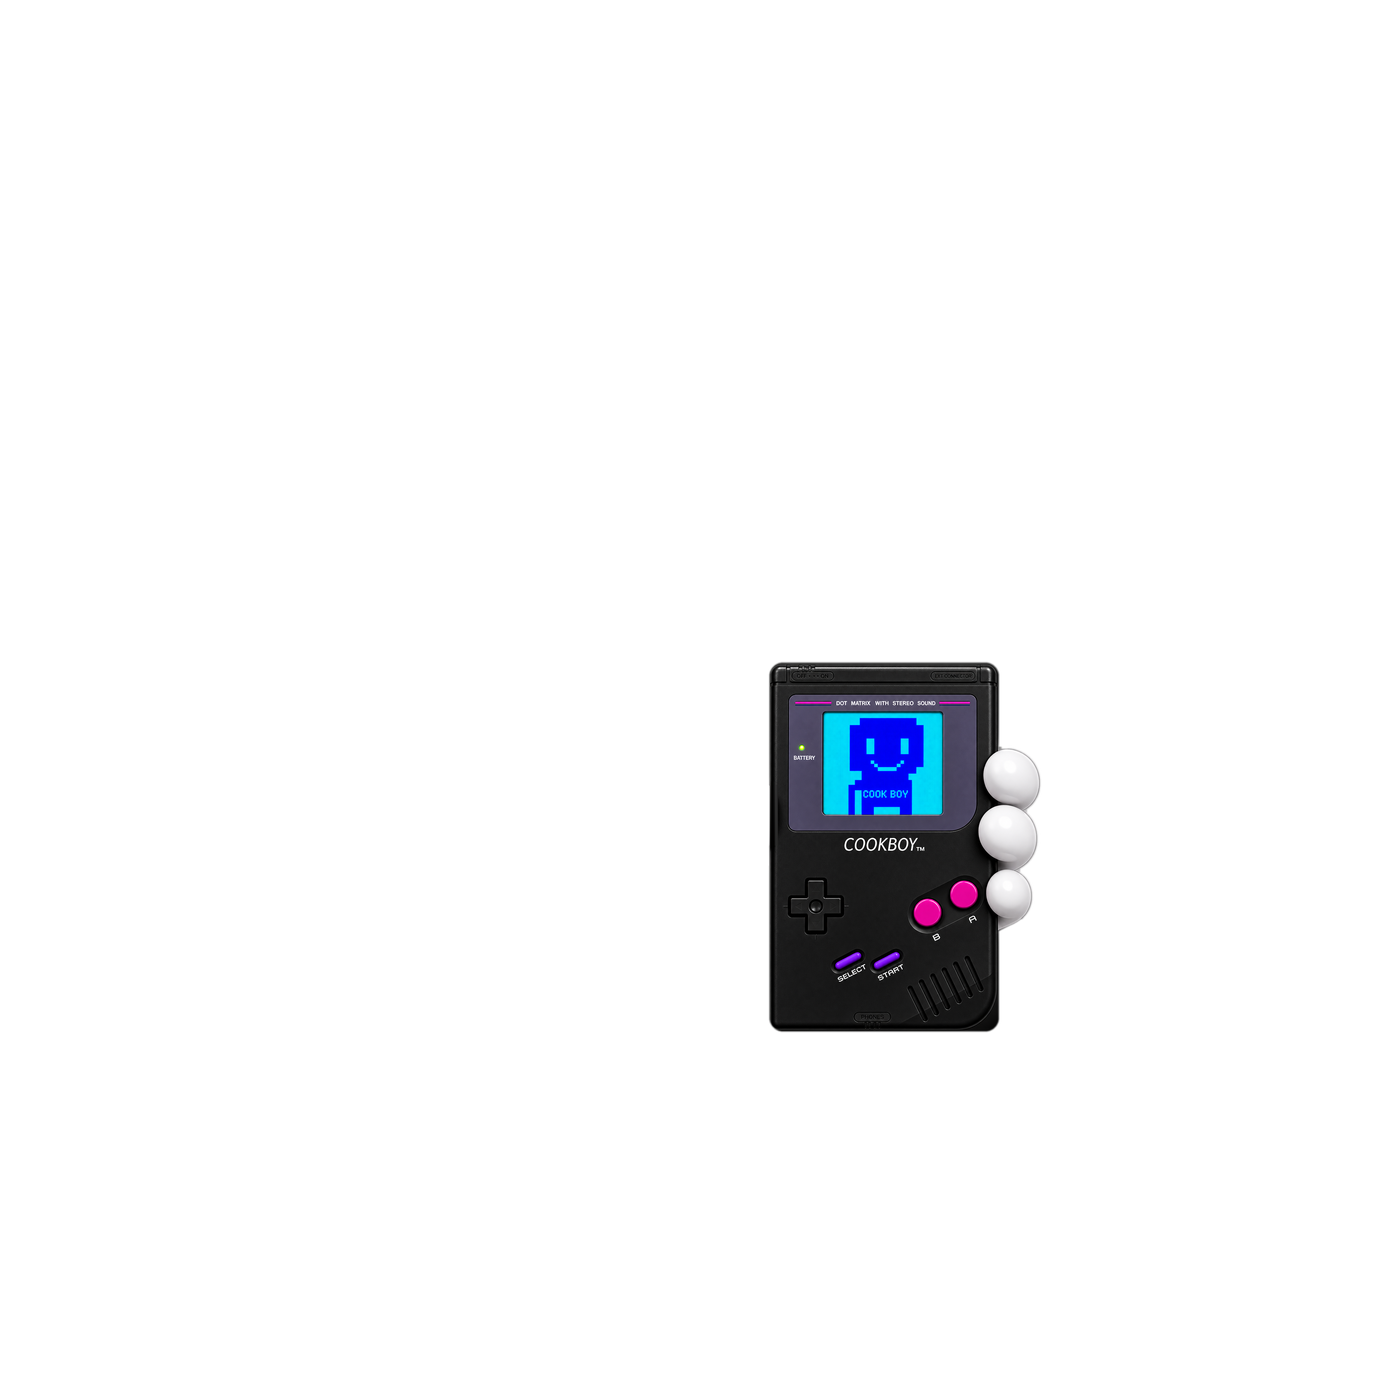
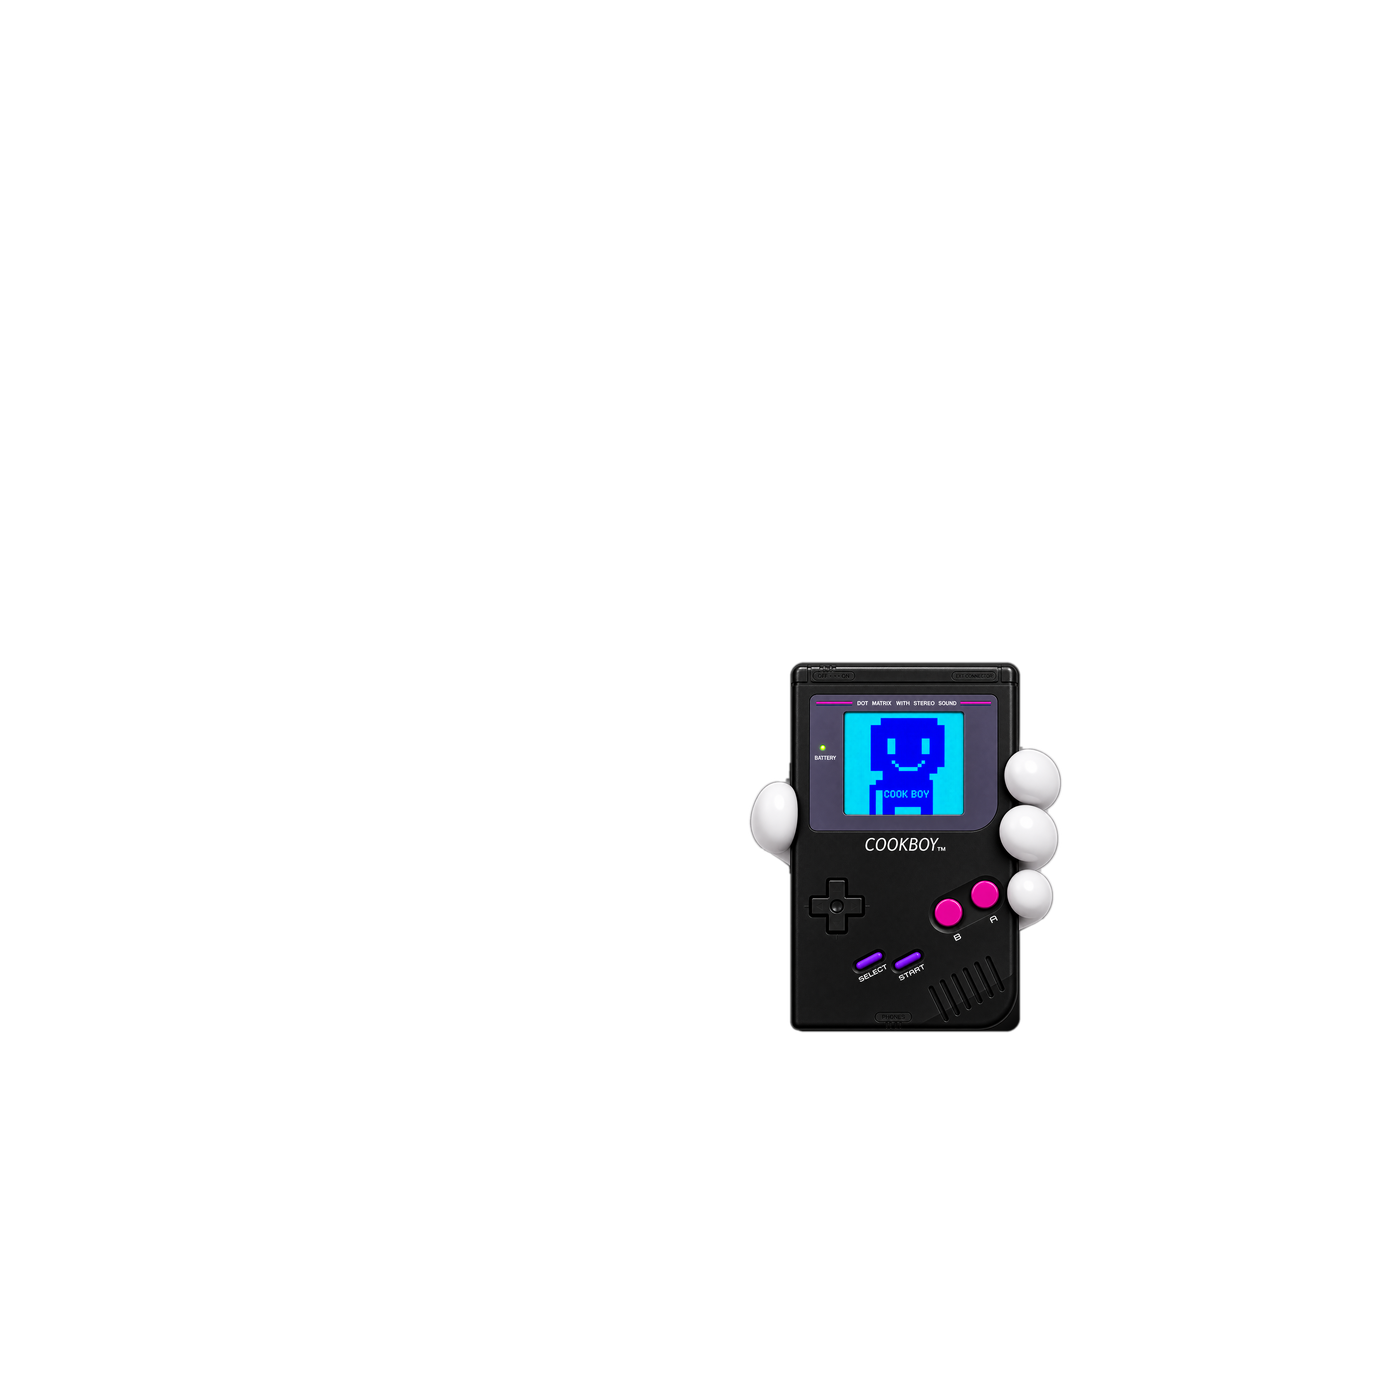
Return the Cookboy's thumb
The sphere on the casing's left is the THUMB of the gripping hand, not a
second hand: it comes round the front while the three fingers wrap the back,
which is exactly why it sits in front of the left bezel. Reading it as an
opposite hand and dropping it cost the grip its thumb and left the fingers
holding the device against nothing.

It was also sliced. The old ellipse mask clipped the thumb the same way it
clipped the two end fingers, so restoring it via hand_mask()'s contour cut
brings it back whole rather than as the half-dome the source crop produced.

With the thumb back there is nothing to repair: repair_left_bezel() existed
only to rebuild the strip of bezel the thumb had been covering, and the
interpolated pixels it synthesized are gone with it. The asset is once again
entirely source art, and the silhouette still has 0 enclosed holes.

The art is 315px wide now rather than 274, so it reaches further either side
of CENTER_X. Re-verified across all 27: 0 eye occlusion, 0 mouth occlusion,
ARMED_LIFT 18/27 matching a rifle. On-body coverage moves to 41.2-95%
(median 61.2%) as the wider art overhangs more, still inside the range the
Knives arm already ships at (18.8-74.1%).

Claude-Session: https://claude.ai/code/session_017xj9sZBpVAv9un9HXHDuMA

Changed region(s): [[0.5248, 0.463, 0.7717, 0.7408]]

diff --git a/asset_assessment/prepare_side_arm.py b/asset_assessment/prepare_side_arm.py
@@ -79,18 +79,19 @@ CENTER_X = 905
 BOTTOM_Y = 1033
 
 
-FINGER_MIN_X = 700     # right of the casing's controls, left of the spheres
-# The dropped hand covered the casing's left bezel across exactly this run.
-BEZEL_REPAIR = (140, 167, 535, 730)   # x0, x1, y0, y1
-
-
 def luma(image):
     return (np.asarray(image, dtype=np.float32)
             @ np.array([0.2126, 0.7152, 0.0722], dtype=np.float32))
 
 
-def finger_mask(image):
-    """The gripping hand's spheres.
+def hand_mask(image):
+    """The gripping hand: three fingers wrapping the right edge, plus the thumb.
+
+    It is ONE hand, not two. The sphere on the casing's left is the thumb of
+    the same hand coming round the front while the fingers wrap the back, which
+    is why it sits in front of the left bezel. Reading it as a second hand and
+    dropping it costs the grip its thumb and leaves the fingers holding the
+    device against nothing.
 
     Cut on EDGE DENSITY, not on brightness. Brightness looks like the obvious
     key -- the spheres are white -- but the studio backdrop immediately right
@@ -111,35 +112,11 @@ def finger_mask(image):
         raise SystemExit("no subject found in the source")
     sizes = ndimage.sum(solid, labels, range(1, count + 1))
     keep = labels == (int(np.argmax(sizes)) + 1)
-    keep[:, :FINGER_MIN_X] = False
     return Image.fromarray((keep * 255).astype(np.uint8), mode="L")
-
-
-def repair_left_bezel(image):
-    """Rebuild the strip of casing the dropped hand was covering.
-
-    The hand sits in FRONT of the casing's left bezel over y 540-724, so simply
-    masking it away punches a notch out of the device's edge -- there is no
-    casing behind it to reveal, and the notch would show the background plate
-    through the silhouette. The bezel is an unbroken vertical strip of black
-    plastic, so the covered rows are interpolated from the clean rows just
-    above and below, which also keeps the strip's top-to-bottom falloff.
-    """
-    rgb = np.asarray(image, dtype=np.float32).copy()
-    x0, x1, y0, y1 = BEZEL_REPAIR
-    above, below = rgb[y0 - 6, x0:x1], rgb[y1 + 6, x0:x1]
-    for step, y in enumerate(range(y0, y1 + 1)):
-        t = step / (y1 - y0)
-        rgb[y, x0:x1] = above * (1.0 - t) + below * t
-    return Image.fromarray(rgb.clip(0, 255).astype(np.uint8), mode="RGB")
 
 
 def main():
     image = Image.open(SOURCE).convert("RGB")
-    fingers = finger_mask(image)
-    # Rebuild the bezel the dropped hand was covering BEFORE cutting, so the
-    # silhouette comes out solid rather than notched.
-    image = repair_left_bezel(image)
     # The backdrop is a black-to-gray studio gradient and the device itself is
     # black, so colour-keying destroys the casing. The casing is a hard-edged
     # rectangle, so mask it as one: it spans x 140-871 at every finger-free
@@ -147,10 +124,9 @@ def main():
     mask = Image.new("L", image.size, 0)
     draw = ImageDraw.Draw(mask)
     draw.rounded_rectangle((140, 145, 872, 1325), radius=42, fill=255)
-    # One hand only. The device is held in the character's LEFT hand, which is
-    # the viewer's RIGHT, so the fingers that wrap the casing's right edge are
-    # the grip and the source's opposite hand is dropped -- keeping both read
-    # as a two-handed hold dead centre, which is not what this trait is.
+    # Then the whole gripping hand -- three fingers round the right edge and
+    # the thumb on the left. The device is held in the character's LEFT hand,
+    # so it reads on the viewer's right.
     #
     # The fingers are NOT an ellipse and must not be masked with one. An
     # ellipse tapers towards its top and bottom, and the three spheres are
@@ -158,8 +134,8 @@ def main():
     # no width: the old (810,405,1008,1015) ellipse spanned only x 859-961 at
     # y=450 where the finger reaches 973, and was effectively zero-width at the
     # top sphere. Both end spheres came out sliced down the middle into flat
-    # half-domes. finger_mask() cuts their real contour instead.
-    mask.paste(255, (0, 0), fingers)
+    # half-domes. hand_mask() cuts their real contour instead.
+    mask.paste(255, (0, 0), hand_mask(image))
     mask = mask.filter(ImageFilter.GaussianBlur(2.0))
     cut = image.convert("RGBA")
     cut.putalpha(mask)
